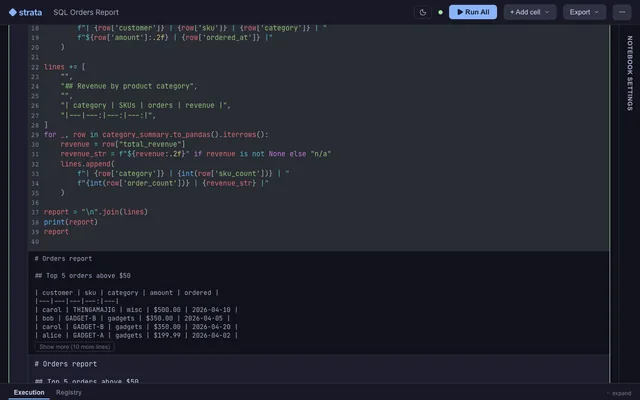
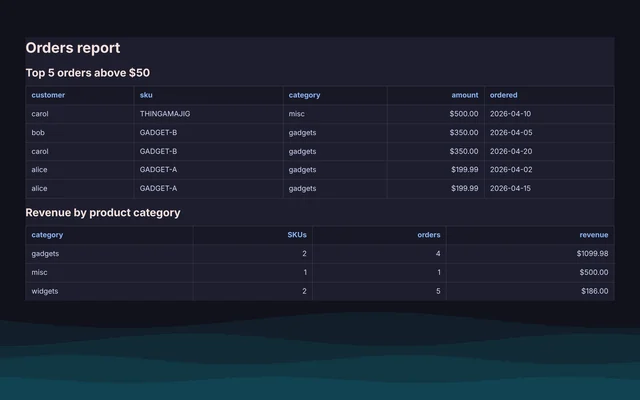
docs: pin the focus cell by id; render the orders report as Markdown
The editor draws only the lines in view, so once the output is scrolled to,
a text filter on a long cell's first lines can stop matching. The orders
report ended on its raw Markdown string; it now renders as tables.

Claude-Session: https://claude.ai/code/session_0153tGTDWfzB9aBrCNiSAYQ5

diff --git a/examples/sql_orders_report/cells/report.py b/examples/sql_orders_report/cells/report.py
@@ -36,4 +36,4 @@ for _, row in category_summary.to_pandas().iterrows():
 
 report = "\n".join(lines)
 print(report)
-report
+Markdown(report)
